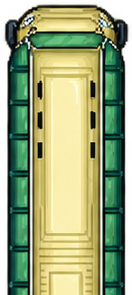
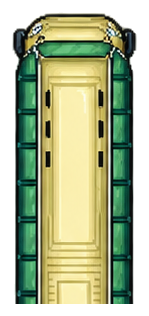
Release Open Night v1.6 vehicle polish

diff --git a/server.py b/server.py
@@ -1025,6 +1025,18 @@ def _player_collision_deflection_angle(old_angle: float, requested_offset: float
     return float(old_angle) + bounded
 
 
+def _bounded_traffic_heading(car: TrafficVehicle, desired: float, dt: float) -> float:
+    """Steer toward a route heading without allowing recovery snap-spins."""
+    rates = {
+        "bus": 0.62, "large_truck": 0.52, "tanker": 0.48,
+        "truck": 0.78, "limo": 0.76, "van": 0.92, "pickup": 1.0,
+    }
+    rate = rates.get(str(car.vehicle_class).lower(), 1.28)
+    delta = math.atan2(math.sin(desired - car.angle), math.cos(desired - car.angle))
+    limit = max(math.radians(1.0), rate * max(0.0, float(dt)))
+    return car.angle + max(-limit, min(limit, delta))
+
+
 def _traffic_footprints_conflict(
     car: TrafficVehicle, x: float, y: float, heading: float,
     other: TrafficVehicle, ox: float, oy: float, other_heading: float,
@@ -1151,7 +1163,8 @@ def update_traffic(dt: float, sessions: list[ClientSession], server_time: float)
         if red_light and dist < 105.0:
             desired = 0.0
 
-        heading = math.atan2(dy, dx) if dist > 1e-6 else car.angle
+        desired_heading = math.atan2(dy, dx) if dist > 1e-6 else car.angle
+        heading = _bounded_traffic_heading(car, desired_heading, dt)
         hx, hy = math.cos(heading), math.sin(heading)
         # Physically motivated but deliberately conservative lookahead.
         braking_distance = (car.speed * car.speed) / max(1.0, 2.0 * TRAFFIC_BRAKE_DECEL)

diff --git a/vehicle_art.py b/vehicle_art.py
@@ -184,12 +184,16 @@ def draw_car(
     if sprite is None:
         return False
 
-    shadow = pygame.Surface((max(12, sprite.get_width() - 3), max(18, sprite.get_height() - 5)), pygame.SRCALPHA)
-    pygame.draw.ellipse(shadow, (*VEHICLE_SHADOW_RGB, VEHICLE_SHADOW_ALPHA), shadow.get_rect())
     rotation = -90.0 - math.degrees(angle_radians)
-    shadow_rot = _rotate_for_heading(shadow, rotation)
-    motion_offset = min(3, int(abs(speed) / 90.0))
-    target.blit(shadow_rot, shadow_rot.get_rect(center=(center[0] + 2 + motion_offset, center[1] + 3 + motion_offset)))
+    meta = vehicle_meta(int(sprite_index))
+    # Generated sprites already carry painted grounding/outline detail. Adding
+    # the legacy ellipse beneath them reads as a clipped neighboring vehicle.
+    if meta.get("art_set") != "generated_vehicle_fleet_2026_08_22":
+        shadow = pygame.Surface((max(12, sprite.get_width() - 3), max(18, sprite.get_height() - 5)), pygame.SRCALPHA)
+        pygame.draw.ellipse(shadow, (*VEHICLE_SHADOW_RGB, VEHICLE_SHADOW_ALPHA), shadow.get_rect())
+        shadow_rot = _rotate_for_heading(shadow, rotation)
+        motion_offset = min(3, int(abs(speed) / 90.0))
+        target.blit(shadow_rot, shadow_rot.get_rect(center=(center[0] + 2 + motion_offset, center[1] + 3 + motion_offset)))
 
     rotated = _rotate_for_heading(sprite, rotation)
     rect = rotated.get_rect(center=center)

diff --git a/v110_job_locations.py b/v110_job_locations.py
@@ -12,7 +12,7 @@ actual GridWorld dimensions and snap each destination to walkable Ground.
 from typing import Any
 
 JOB_KEYS = ("supplier_pos", "customer_pos")
-JOB_NPC_COUNT = 20
+JOB_NPC_COUNT = 40
 
 
 def _point(raw: Any) -> tuple[float, float] | None:

diff --git a/versioning.py b/versioning.py
@@ -1,6 +1,6 @@
 """Single source of truth for the multiplayer wire/build version."""
 
-GAME_VERSION = "1.5"
+GAME_VERSION = "1.6"
 
 
 def version_label() -> str:

diff --git a/RELEASE_NOTES_v1.6.md b/RELEASE_NOTES_v1.6.md
@@ -1,0 +1,12 @@
+# Open Night v1.6
+
+Generated-vehicle polish and traffic handling release.
+
+- Tightened all 28 generated PNG crops around the vehicle artwork while retaining transparent edge padding.
+- Increased generated-vehicle display length by 15% so the new fleet reads at the intended scale.
+- Removed the duplicate legacy ellipse shadow from generated vehicles, which could resemble a clipped overlapping car.
+- Added class-aware steering limits so buses, tankers, trucks, and other traffic turn progressively instead of snap-spinning.
+- Doubled job NPC locations from 20 to 40, providing 20 supplier/buyer pairs.
+- Preserved the recently added player pixel-car sheets alongside the generated fleet.
+
+Wire protocol and public release version: `1.6`.
